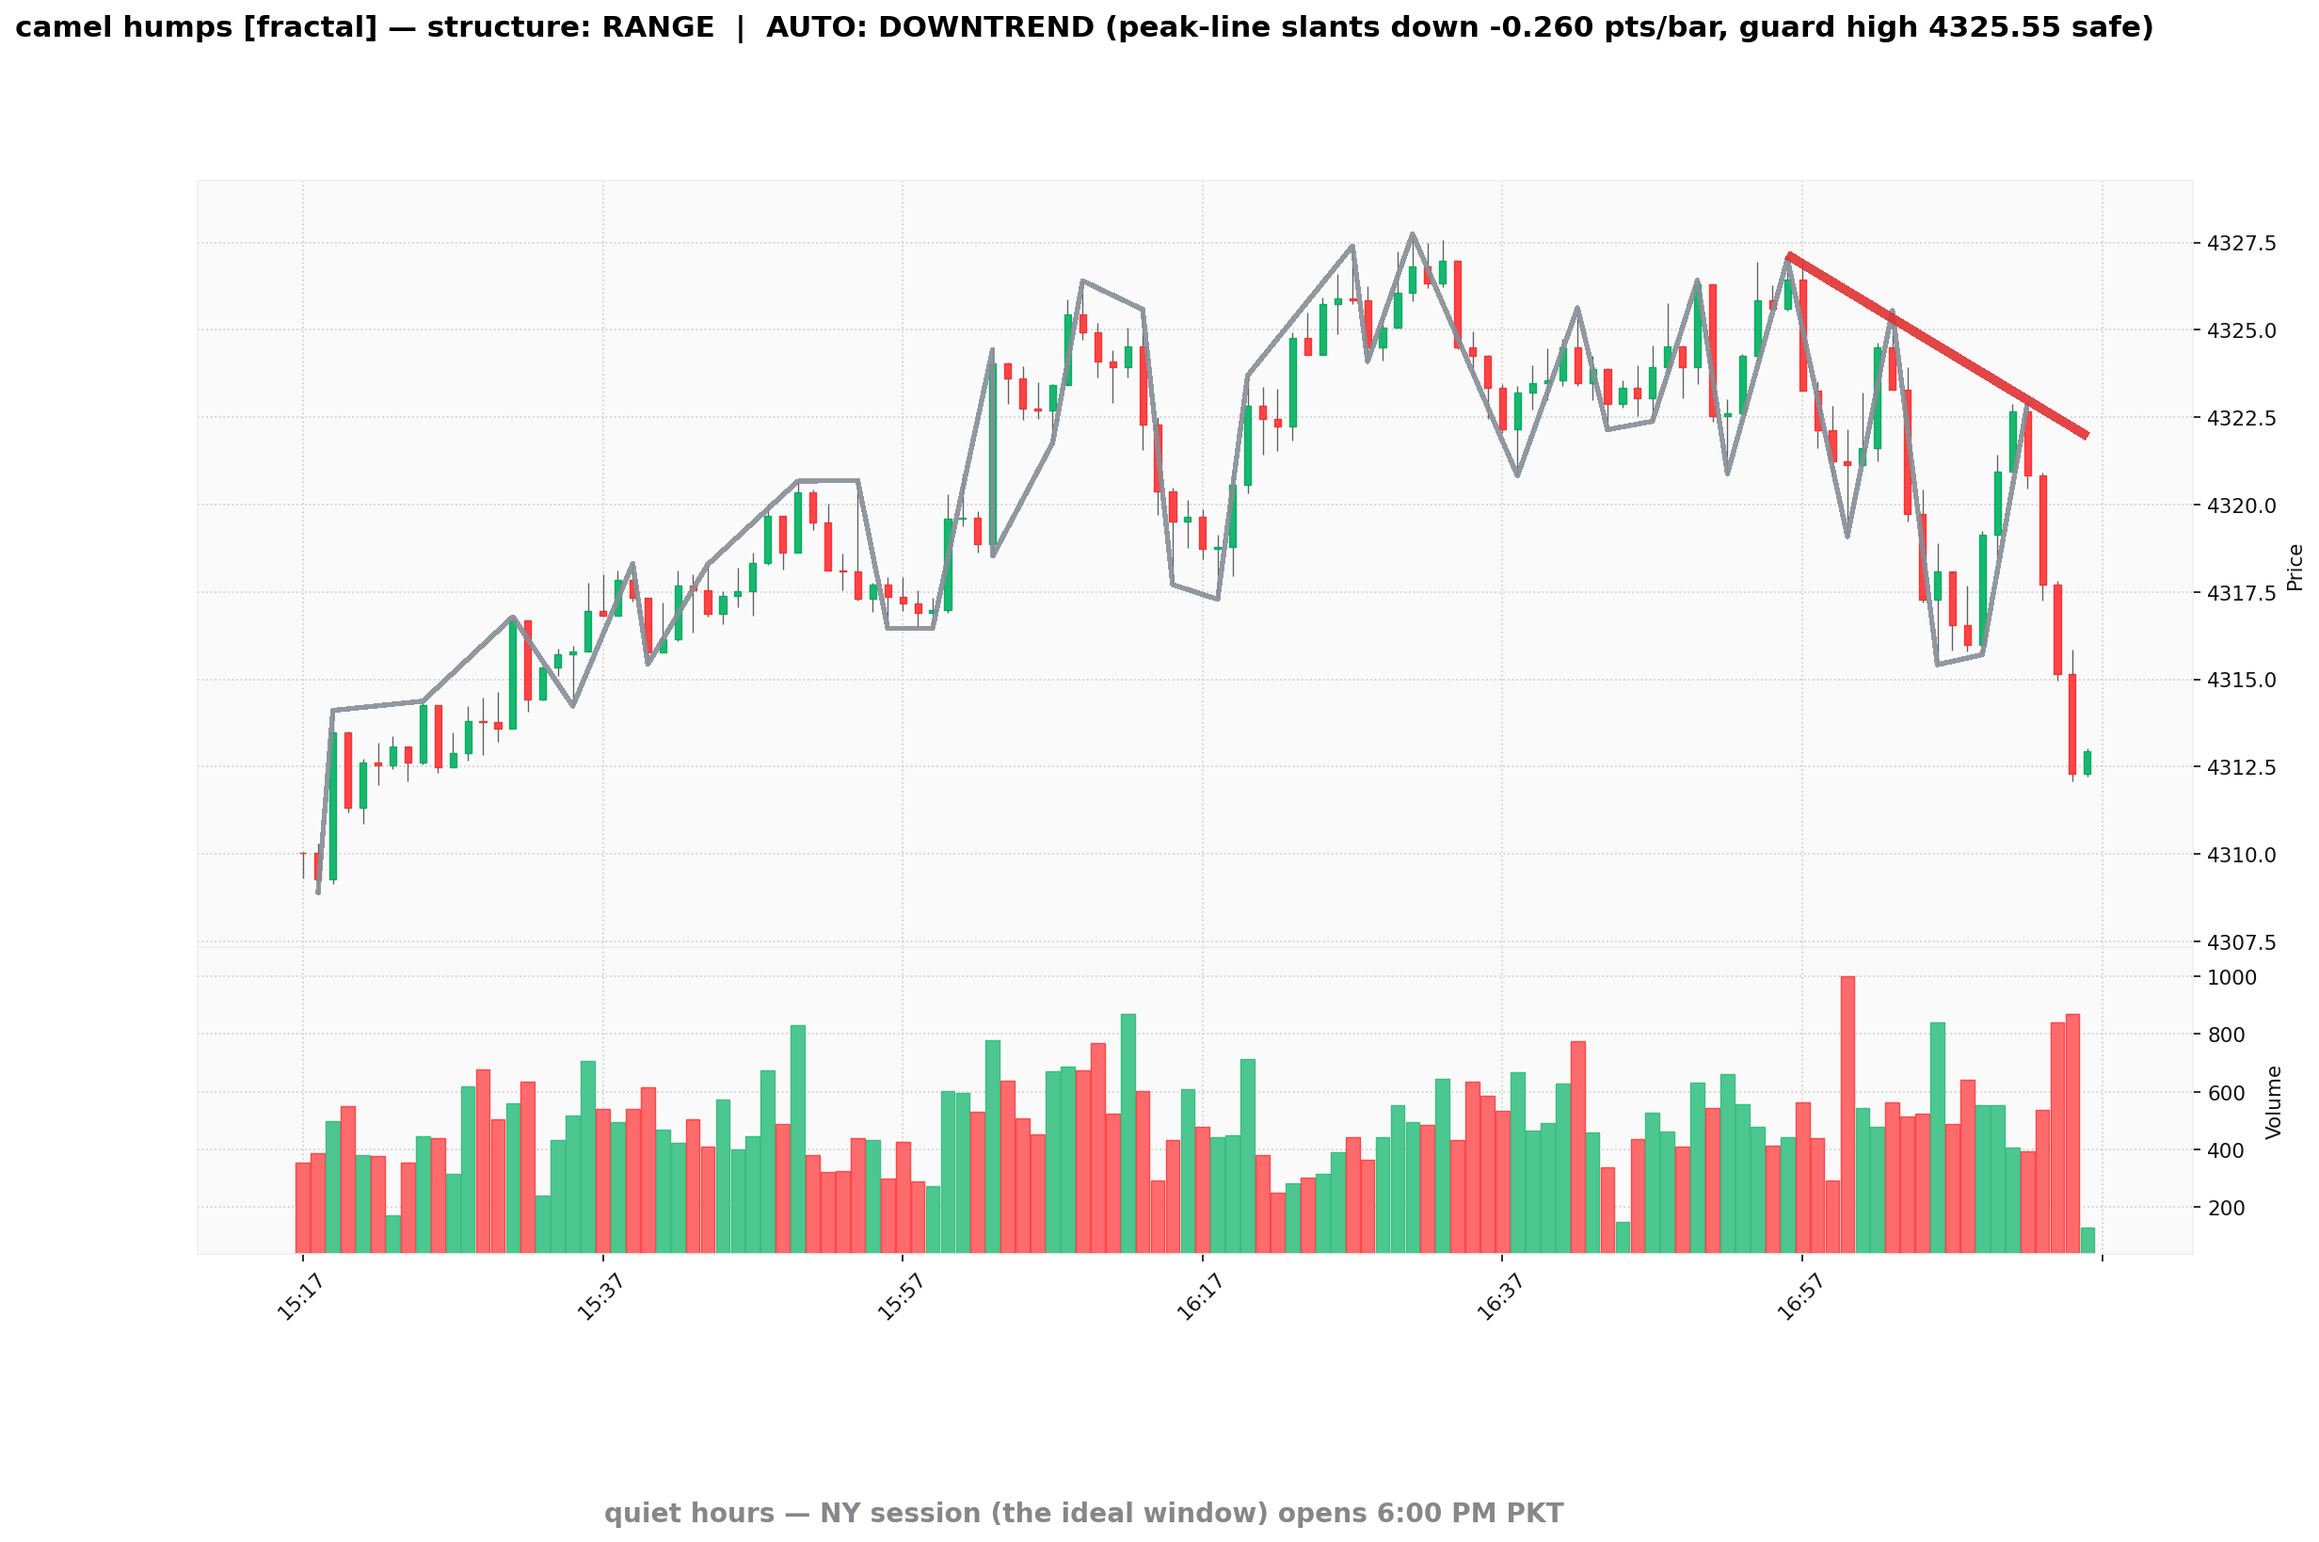
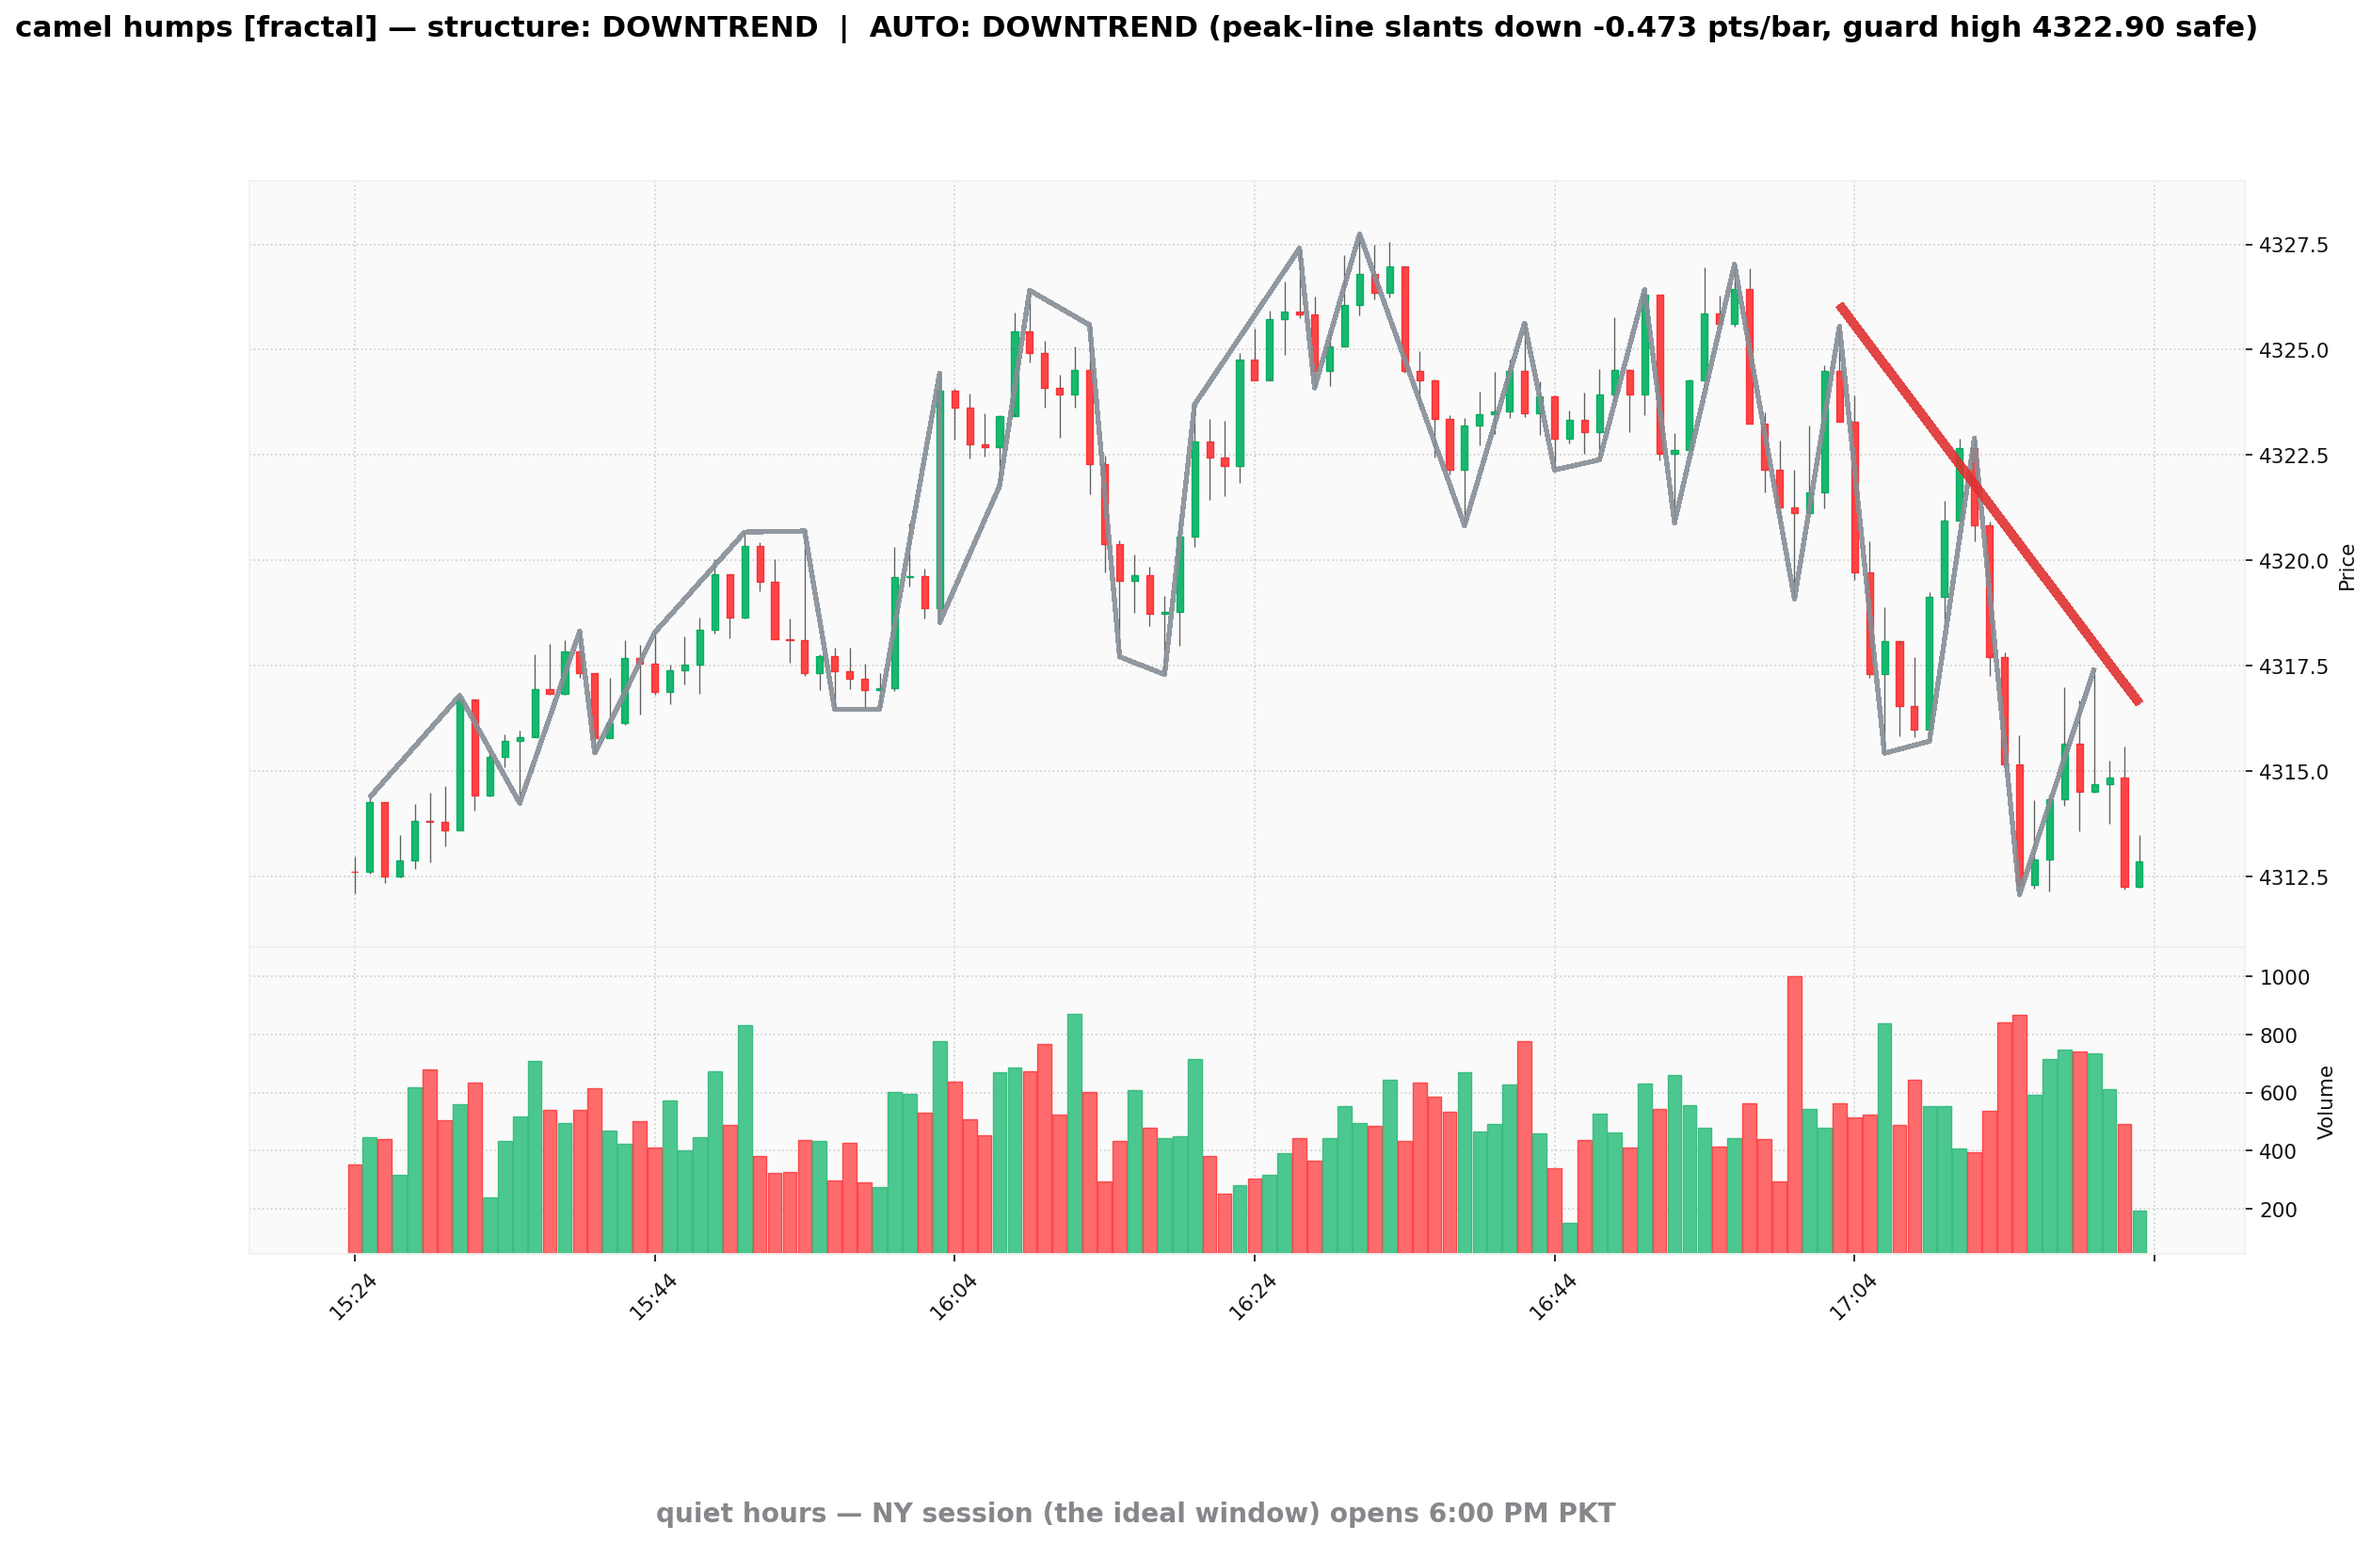
THE DOOR WAS NEVER ACTUALLY RETIRED — my bug, caught by Zee's 16:42 forensic (a GHOST-DOOR BUY two hours after the retirement, breaking four of five law clauses, -$19.30): the guard deleted case_armed.json and then FELL THROUGH and re-created it a few lines later. No return, no flag — the tap was tu

diff --git a/monitor/oanda_live_matcher.py b/monitor/oanda_live_matcher.py
@@ -510,9 +510,6 @@ def _swing_idx(seg, kind, k=3):
 
 
 def write_armed(bars):
-    if not DOOR_ENABLED:                      # the fundamental law: closed candles only
-        ARMED.unlink(missing_ok=True)
-        # the WATCH box still updates below so the cockpit keeps showing the setup
     cands = find_armed(bars)
     if not cands:
         ARMED.unlink(missing_ok=True)
@@ -556,6 +553,9 @@ def write_armed(bars):
     if night_window():
         ARMED.unlink(missing_ok=True)              # night gate: the ghost rests
         return w
+    if not DOOR_ENABLED:
+        ARMED.unlink(missing_ok=True)   # THE DOOR IS RETIRED — never arm, ever.
+        return w                        # (the WATCH box above still feeds the cockpit)
     ready = [c for c in cands if c["dist"] <= 2.0 and zee_allows(c["side"])
              and not no_demand(bars, c["side"])
              and not (dt and (int(c["swept"]) + int(c.get("law2", 0)) + int(c.get("law3", 0))
